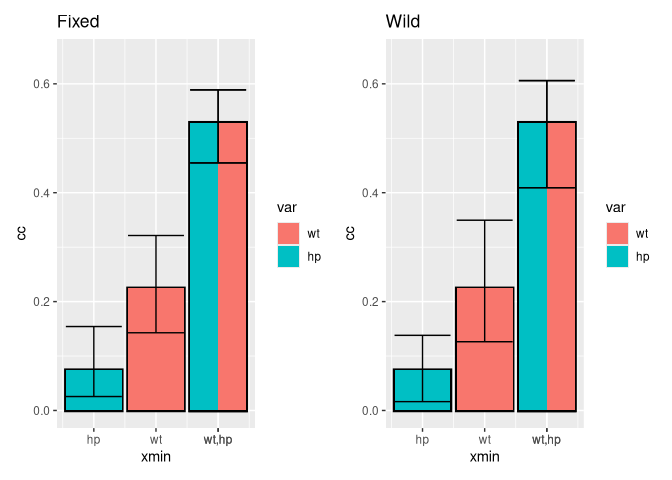
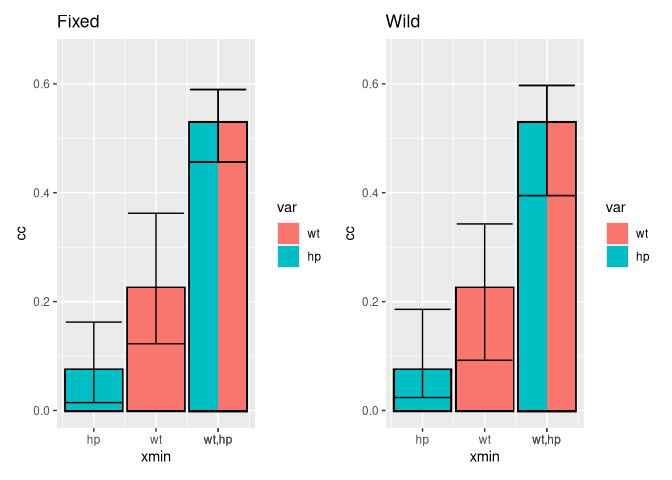
docs: update readme, vignettes, args

diff --git a/README.md b/README.md
@@ -40,30 +40,27 @@ library(ggcommonality)
 
 my_formula <- mpg ~ wt + hp
 
-p <- ggcommonality(formula = my_formula,
+p <- ggcom(formula = my_formula,
                    data = mtcars)
 #> Registered S3 method overwritten by 'mosaic':
 #>   method                           from   
 #>   fortify.SpatialPolygonsDataFrame ggplot2
   
 p |> attributes() |> summary()
-#>                Length Class                      Mode     
-#> data            11    data.frame                 list     
-#> data.boot      400    -none-                     numeric  
-#> formula          3    formula                    call     
-#> stack            1    -none-                     logical  
-#> stack_by         1    -none-                     character
-#> n_replications   1    -none-                     numeric  
-#> sample_column    1    -none-                     name     
-#> resample_type    1    -none-                     character
-#> wild_type        1    -none-                     character
-#> include_total    1    -none-                     logical  
-#> get_yhat         1    nonstandardGenericFunction function 
-#> bs_ci            1    nonstandardGenericFunction function 
-#> ci_bounds        2    -none-                     numeric  
-#> seed             1    -none-                     name     
-#> ...              1    -none-                     name     
-#> class            1    -none-                     character
+#>                Length Class      Mode     
+#> data            11    data.frame list     
+#> data.boot      400    -none-     numeric  
+#> formula          3    formula    call     
+#> stack            1    -none-     name     
+#> n_replications   1    -none-     numeric  
+#> sample_column    1    -none-     name     
+#> resample_type    1    -none-     character
+#> wild_type        1    -none-     character
+#> include_total    1    -none-     logical  
+#> ci_bounds        2    -none-     numeric  
+#> seed             1    -none-     name     
+#> ...              1    -none-     name     
+#> class            1    -none-     character
 ```
 
 ggcommonality objects can be defined, plotted, and summarized using
@@ -72,16 +69,24 @@ built-in methods.
 ``` r
 # visualize commonality effects and add confidence intervals
 plot(p) +
-  add_ci(p)
+  ggcom_ci(p)
+#> Bootstrapped confidence intervals:
+#> # A tibble: 3 × 3
+#> # Groups:   com [3]
+#>   com      lci   uci
+#>   <fct>  <dbl> <dbl>
+#> 1 hp    0.0190 0.181
+#> 2 wt    0.107  0.351
+#> 3 wt,hp 0.400  0.611
 ```
 
 <img src="man/figures/README-unnamed-chunk-2-1.png" width="100%" />
 
-We can also check the results from `yhat`
+We can also check the output from the `yhat` package
 
 ``` r
 
-get_yhat(p)
+ggcom_yhat(p)
 #> $yhat
 #> $yhat$LM_Output
 #> 
@@ -142,57 +147,59 @@ get_yhat(p)
 #> 
 #> $ci
 #>       Unique to wt         Unique to hp         Common to wt, and hp
-#> 2.5%              0.133045            0.0263950            0.4040925
-#> 97.5%             0.326220            0.1612175            0.6128200
+#> 2.5%             0.1067050            0.0189500              0.39964
+#> 97.5%            0.3510375            0.1808275              0.61110
 #>       Total               
-#> 2.5%             0.6657925
-#> 97.5%            0.9553275
+#> 2.5%             0.6659825
+#> 97.5%            0.9479450
 ```
 
 Commonality effects can be stacked in multiple ways:
 
 ``` r
 
-# define object 
-p <- ggcommonality(
-  formula = my_formula,
-  data = mtcars,
-  stack = TRUE
-)
-  
+# update object 
+slot(p, 'stack') <- "common"
 
 # stack
 plot(p) +
-  add_ci(p)
+  ggcom_ci(p)
+#> Bootstrapped confidence intervals:
+#>         type     lower   upper
+#> 2.5%  unique 0.2331025 0.38051
+#> 2.5%1 common 0.3996400 0.61110
 ```
 
 <img src="man/figures/README-unnamed-chunk-3-1.png" width="100%" />
 
 ``` r
-# define object 
-p <- ggcommonality(
-  formula = my_formula,
-  data = mtcars,
-  stack = TRUE, 
-  stack_by = "partition"
-)
+# update object 
+slot(p, 'stack') <- "partition"
   
 # stack
 plot(p) +
-  add_ci(p)
+  ggcom_ci(p)
+#> Bootstrapped confidence intervals:
+#>       category     lower     upper
+#> 2.5%        wt 0.5594425 0.8718750
+#> 2.5%1       hp 0.4301350 0.7437325
 ```
 
 <img src="man/figures/README-unnamed-chunk-4-1.png" width="100%" />
 
-The `bs_ci()` method prints confidence intervals generated for stacked
-effects.
+The `ggcom_ci()` method prints confidence intervals generated for
+stacked effects.
 
 ``` r
-bs_ci(p)
+ggcom_ci(p)
 #> Bootstrapped confidence intervals:
-#>       category    lower     upper
-#> 2.5%        wt 0.564400 0.8840525
-#> 2.5%1       hp 0.440255 0.7494500
+#>       category     lower     upper
+#> 2.5%        wt 0.5594425 0.8718750
+#> 2.5%1       hp 0.4301350 0.7437325
+#> mapping: x = ~x_mid, ymin = ~lower, ymax = ~upper 
+#> geom_errorbar: na.rm = FALSE, orientation = NA
+#> stat_identity: na.rm = FALSE
+#> position_identity
 ```
 
 # Confidence intervals
@@ -216,12 +223,12 @@ generated for the sum of unique effects and the sum of joint effects.
 
 ``` r
 # set r's random number generator
-p1 <- ggcommonality(
+p1 <- ggcom(
   formula = my_formula,
   data = mtcars,
   resample_type = "fixed"
 )
-p2 <- ggcommonality(
+p2 <- ggcom(
   formula = my_formula,
   data = mtcars,
   resample_type = "wild"
@@ -231,13 +238,27 @@ library(patchwork)
 
 # stack
 plot(p1) +
-  add_ci(p1)+
+  ggcom_ci(p1)+
   ylim(0,0.65)+
   ggtitle("Fixed")|
   plot(p2) +
-  add_ci(p2)+
+  ggcom_ci(p2)+
     ylim(0,0.65)+
   ggtitle("Wild")
+#> # A tibble: 3 × 3
+#> # Groups:   com [3]
+#>   com      lci   uci
+#>   <fct>  <dbl> <dbl>
+#> 1 hp    0.0144 0.162
+#> 2 wt    0.123  0.362
+#> 3 wt,hp 0.456  0.590
+#> # A tibble: 3 × 3
+#> # Groups:   com [3]
+#>   com      lci   uci
+#>   <fct>  <dbl> <dbl>
+#> 1 hp    0.0239 0.186
+#> 2 wt    0.0923 0.343
+#> 3 wt,hp 0.395  0.597
 ```
 
 <img src="man/figures/README-unnamed-chunk-6-1.png" width="100%" />
